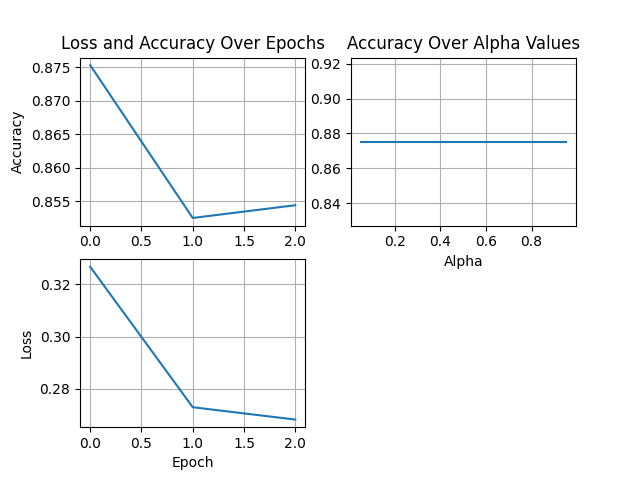
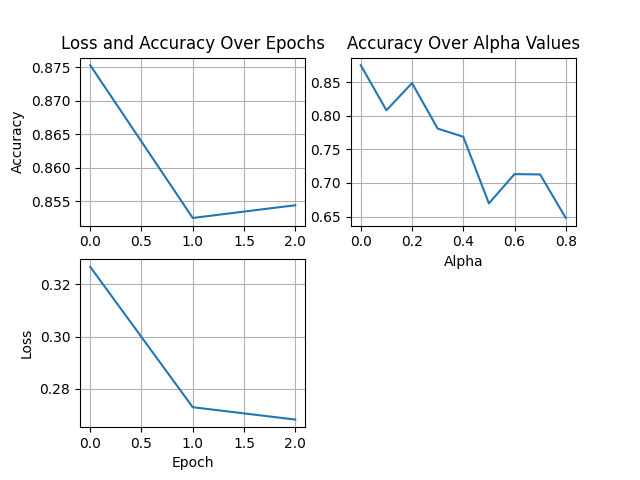
updated C2Question for decay values

Changed region(s): [[0.5625, 0.125, 0.9062, 0.5312], [0.4688, 0.125, 0.5312, 0.4688]]

diff --git a/C2question.py b/C2question.py
@@ -173,7 +173,7 @@ alpha = 0.05      # learning rate
 batch_size = 100    # batch size
 MaxIter = 50        # Maximum iteration
 decay = 0.          # weight decay
-maxAlpha = 1
+maxDecay = 0.99
 
 epoch_best = 0
 acc_best = 0
@@ -183,28 +183,28 @@ best_loss = []
 best_val = []
 W_best = None
 
-alphaArray = []
+decayArray = []
 accuracyArray = []
 
 totalLossArray = []
 totalValArray = []
 
-for i in np.arange(alpha, maxAlpha, 0.05):
-    print("Current Alpha: ", i)
-    alpha = i
+for i in np.arange(0, maxDecay, 0.01):
+    print("Current Decay: ", i)
+    decay = i
     lossArray = []
     valArray = []
     epoch, acc, W = train(X_train, t_train, X_val, t_val)
 
     if acc > acc_best:
         acc_best = acc
-        best_alpha = i
+        best_decay = i
         epoch_best = epoch
         W_best = W
         best_loss = lossArray
         best_val = valArray
 
-    alphaArray.append(i)
+    decayArray.append(i)
     accuracyArray.append(acc)
     totalLossArray.append(lossArray)
     totalValArray.append(valArray)
@@ -217,7 +217,7 @@ _, _, _, acc_test_best = predict(X_test, W_best, t_test)
 # print('At epoch', epoch_best, 'val: ', acc_best,
 #       'test:', acc_test)
 
-print("Best alpha: ", best_alpha)
+print("Best decay: ", best_decay)
 print("Best validation accuracy: ", acc_best)
 print("Best test accuracy: ", acc_test_best)
 print("Best loss: ", best_loss)
@@ -226,7 +226,7 @@ print(accuracyArray)
 
 
 x_axis1 = np.arange(0, MaxIter, 1)
-x_axis2 = np.arange(0.05, maxAlpha, 0.05)
+x_axis2 = np.arange(0, maxDecay, 0.01)
 y_axis1 = np.arange(0, 1, 0.01)
 y_axis2 = np.arange(0, 1, 0.01)
 
@@ -248,12 +248,12 @@ plt.ylabel("Accuracy")
 plt.subplot(2, 2, 2)
 plt.plot(x_axis2, accuracyArray)
 plt.grid()
-plt.title("Accuracy Over Alpha Values")
+plt.title("Accuracy Over Decay Values")
 # plt.ylim(0, 1)
 # plt.title("Risk Over Epochs")
 # plt.ylabel("Accuracy")
-plt.xlabel("Alpha")
+plt.xlabel("Decay")
 
-plt.savefig('C2Q2')
+plt.savefig('C2Q2Decay')
 
 plt.show()

diff --git a/C2_todo.py b/C2_todo.py
@@ -172,7 +172,7 @@ N_class = 10
 alpha = 0.1      # learning rate
 batch_size = 100    # batch size
 MaxIter = 50        # Maximum iteration
-decay = 0.          # weight decay
+decay = 0          # weight decay
 
 lossArray = []
 valArray = []
